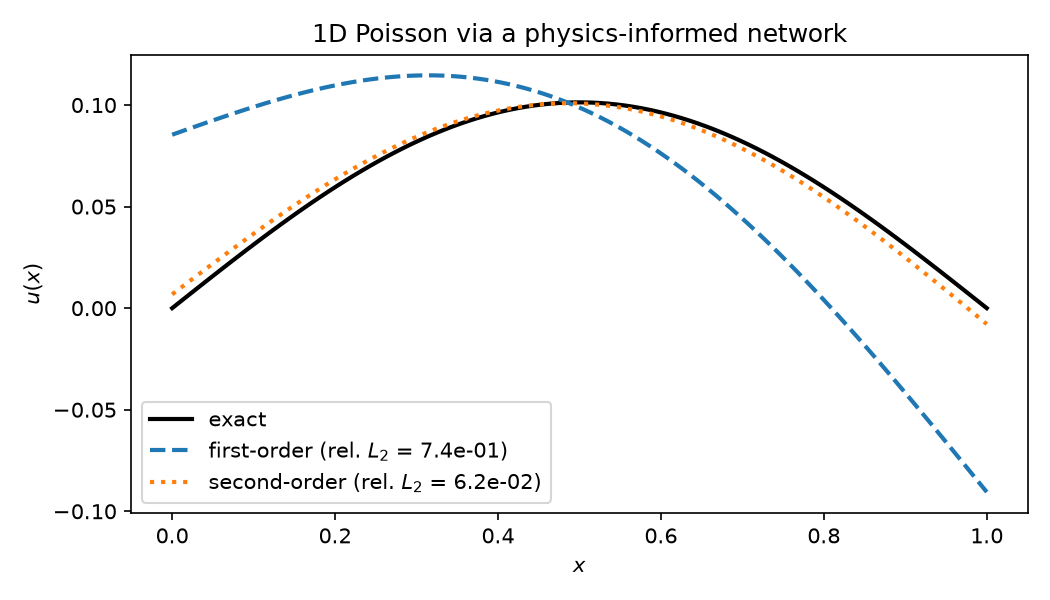
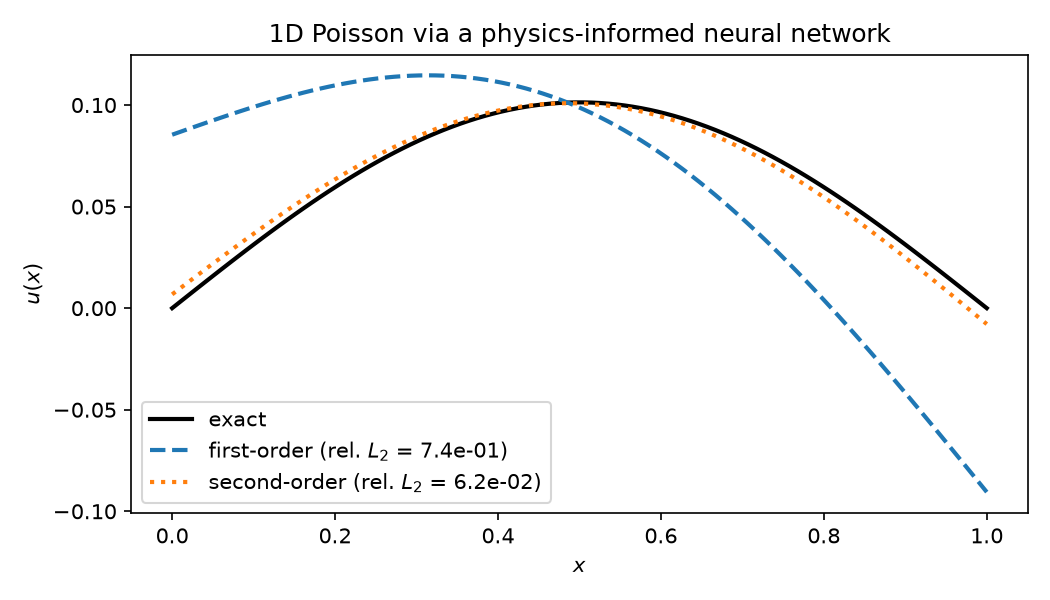
Minor text update

Changed region(s): [[0.2438, 0.03, 0.8533, 0.09]]

diff --git a/experiments/examples/pinn_poisson_exact.py b/experiments/examples/pinn_poisson_exact.py
@@ -1,5 +1,5 @@
 #!/usr/bin/env python3
-"""Quickstart: solve a 1D Poisson problem with a physics-informed network.
+"""Quickstart: solve a 1D Poisson problem with a physics-informed neural network.
 
 Run it with no arguments and no infrastructure -- no Docker, no wandb, no
 cluster:
@@ -150,7 +150,7 @@ def main() -> None:
         )
     plt.xlabel("$x$")
     plt.ylabel("$u(x)$")
-    plt.title("1D Poisson via a physics-informed network")
+    plt.title("1D Poisson via a physics-informed neural network")
     plt.legend()
     plt.tight_layout()
     plt.savefig(args.output, dpi=150)

diff --git a/README.md b/README.md
@@ -18,7 +18,7 @@ without ever forming a Hessian.
 In practice this means a training loop that is parallel by construction, has a
 principled acceptance test for every step rather than a hand-tuned learning
 rate, and applies equally to standard supervised learning and to
-physics-informed networks. The methods are described in the
+physics-informed neural networks (PINNs). The methods are described in the
 [publications](#publications) below.
 
 The code uses minGPT and builds from it: https://github.com/karpathy/minGPT/tree/master
@@ -80,7 +80,7 @@ twenty orders of magnitude short while the trust-region method is unaffected.
 with `n` pairs it reproduces the Hessian of an `n`-dimensional quadratic
 exactly, and the trust-region step becomes a Newton step.
 
-### A physics-informed network
+### A physics-informed neural network
 
 The same reasoning says where these methods do *not* dominate. On a large
 network with a well-conditioned loss and memory far below the parameter count,
@@ -91,9 +91,9 @@ python3 experiments/examples/pinn_poisson_exact.py
 ```
 
 This solves `-u''(x) = sin(pi x)` on `(0, 1)` with `u(0) = u(1) = 0` using a
-physics-informed network. The exact solution `u(x) = sin(πx)/π²` is known, so
-the script reports the **relative L2 error against the truth** rather than a
-training loss:
+physics-informed neural network. The exact solution `u(x) = sin(πx)/π²` is
+known, so the script reports the **relative L2 error against the truth** rather
+than a training loss:
 
 ```
   first-order   relative L2 error 7.417e-01   residual loss 2.34e-04   2.5s
@@ -102,7 +102,7 @@ training loss:
   second-order is 11.9x more accurate for the same budget
 ```
 
-![1D Poisson solved with a physics-informed network](docs/pinn_poisson.png)
+![1D Poisson solved with a physics-informed neural network](docs/pinn_poisson.png)
 
 The second-order method is 2× to 20× more accurate here depending on the seed —
 a real gain, but nothing like the margin on the rotated quadratic above. In the
